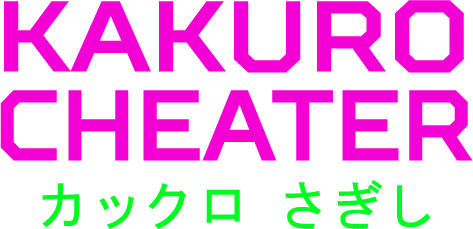
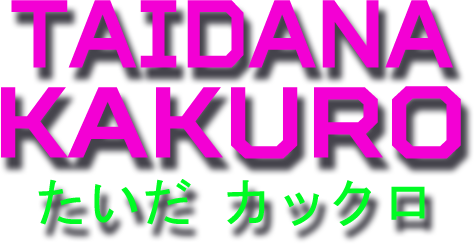
UI Changes, Nearly Complete
Modernized UI.

diff --git a/src/kakuro/Main.css b/src/kakuro/Main.css
@@ -1,6 +1,6 @@
 /* VARIABLE DEFINITIONS: Only these 4 variables have to be adjusted, the rest is copy-paste */
 * {
-    -fx-my-menu-color: #000000;                  /* Change according to your needs */
+    -fx-my-menu-color: #44434b;                  /* Change according to your needs */
     -fx-my-menu-color-highlighted: #FFFFFF;      /* Change according to your needs */
     -fx-my-menu-font-color: #FFFFFF;             /* Change according to your needs */
     -fx-my-menu-font-color-highlighted: #000000; /* Change according to your needs */
@@ -10,12 +10,17 @@
 /*** The menu bar itself ***/
 .menu-bar {
     -fx-background-color: -fx-my-menu-color;
-    -fx-padding: 2 2 2 2;
+    -fx-padding: 1 1 1 20;
+    -fx-border-radius: 12 12 12 12;
+  	-fx-background-radius: 12 12 12 12;
 }
 
 /*** Top-level menu itself (not selected / hovered) ***/
 .menu-bar > .container > .menu-button {
     -fx-background-color: -fx-my-menu-color;
+    -fx-font-family: "Helvetica";
+    -fx-font-size: 16 px;
+    -fx-font-weight: 300;
 }
 
 /*** Top-level menu's label (not selected / hovered) ***/
@@ -33,6 +38,8 @@
 .menu-bar > .container > .menu-button:focused,
 .menu-bar > .container > .menu-button:showing {
     -fx-background-color: -fx-my-menu-color-highlighted;
+    -fx-border-radius: 12 12 12 12;
+  	-fx-background-radius: 12 12 12 12;
 }
 
 /*** Top-level menu's label (selected / hovered) ***/
@@ -99,9 +106,41 @@
 }
 
 .button:focused {
-    -fx-border-color: transparent, black;
+    -fx-border-color: transparent;
 }
 
 .button:pressed {
-    -fx-background-color: black;
+    -fx-background-color: #323135;
+}
+
+.root {
+    -fx-background-color: #323135;
+    -fx-font-family: "Helvetica";
+    -fx-font-size: 16 px;
+    -fx-font-weight: 100;
+}
+
+.landing-button {
+    -fx-background-color: #44434b;
+    -fx-border-radius: 30 30 30 30;
+  	-fx-background-radius: 30 30 30 30;
+  	-fx-border-width: 5 30 5 30;
+}
+
+.landing-button:focused {
+    -fx-background-color: #44434b;
+    -fx-border-radius: 30 30 30 30;
+  	-fx-background-radius: 30 30 30 30;
+  	-fx-border-width: 5 30 5 30;
+}
+
+.landing-button:pressed {
+    -fx-background-color: #44434b;
+    -fx-border-radius: 30 30 30 30;
+  	-fx-background-radius: 30 30 30 30;
+  	-fx-border-width: 5 30 5 30;
+}
+
+.black-rect {
+	-fx-fill: #323135;
 }

diff --git a/src/kakuro/LandingPage.java b/src/kakuro/LandingPage.java
@@ -27,9 +27,9 @@ public class LandingPage {
 	public LandingPage(GameBoard gB) {
 		g = gB;
 		
-		appContent.setStyle("-fx-background-color: Black;");
+		appContent.setStyle("-fx-background-color: #323135;");
 		appContent.setVgap(20);
-		appContent.setPadding(new Insets(30, 75, 40, 75));
+		appContent.setPadding(new Insets(50, 60, 50, 60));
 		
 		// Title Button Generation
 		{
@@ -43,6 +43,7 @@ public class LandingPage {
 		// Random Button Generation / Event Handling
 		{
 			Button button2 = new Button();
+			button2.getStyleClass().add("landing-button");
 			button2.setGraphic(new ImageView(random1));
 			
 			button2.setOnMouseEntered(event -> {
@@ -62,6 +63,7 @@ public class LandingPage {
 		// Load Button Generation / Event Handling
 		{
 			Button button3 = new Button();
+			button3.getStyleClass().add("landing-button");
 			button3.setGraphic(new ImageView(loadGame1));
 			
 			button3.setOnMouseEntered(event -> {
@@ -81,6 +83,7 @@ public class LandingPage {
 		// Exit Button Generation / Event Handling
 		{
 			Button button4 = new Button();
+			button4.getStyleClass().add("landing-button");
 			button4.setGraphic(new ImageView(exit1));
 			
 			button4.setOnMouseEntered(event -> {

diff --git a/src/kakuro/Main.java b/src/kakuro/Main.java
@@ -5,11 +5,8 @@
 package kakuro;
 
 import javafx.application.Application;
-import javafx.event.EventHandler;
 import javafx.stage.Stage;
 import javafx.scene.Scene;
-import javafx.scene.input.KeyCode;
-import javafx.scene.input.KeyEvent;
 
 public class Main extends Application {
 
@@ -26,17 +23,9 @@ public class Main extends Application {
 			GameBoard gameBoard = new GameBoard(primaryStage);
 			Scene scene = new Scene(gameBoard.createContent());
 			scene.getStylesheets().add(Main.class.getResource("Main.css").toExternalForm());
-			scene.setOnKeyPressed(new EventHandler<KeyEvent>() {
-				 public void handle(final KeyEvent keyEvent) {
-				   if (keyEvent.getCode() == KeyCode.SPACE) {
-				    gameBoard.cheat();
-				    keyEvent.consume();
-				   }
-				 }
-				});
 			primaryStage.setResizable(false);
 			primaryStage.setScene(scene);
-			primaryStage.setTitle("Kakuro!");
+			primaryStage.setTitle("Taidana Kakuro");
 			primaryStage.show();
 		} catch(Exception e) {
 			e.printStackTrace();

diff --git a/src/kakuro/BlackTile.java b/src/kakuro/BlackTile.java
@@ -29,7 +29,7 @@ public class BlackTile extends Tile {
 		displayed = new Rectangle(size, size);
 
 		// paint it black
-		displayed.setFill(Color.BLACK);
+		displayed.getStyleClass().add("black-rect");
 
 		// add it to the game board
 		getChildren().addAll(displayed);
@@ -88,9 +88,9 @@ public class BlackTile extends Tile {
 			tR.setTranslateY(-14.00);
 
 			tR.setStyle(
-					"-fx-font-family: \"Times New Roman\";" +
-							"-fx-font-size: 24px;"	+
-							"-fx-fill: rgb(255,255,255);"
+					"-fx-font-family: \"Helvetica\";" +
+							"-fx-font-size: 20px;"	+
+							"-fx-fill: white;"
 					);
 
 			getChildren().addAll(tR);
@@ -102,9 +102,9 @@ public class BlackTile extends Tile {
 			bL.setTranslateY(14.00);
 
 			bL.setStyle(
-					"-fx-font-family: \"Times New Roman\";" +
-							"-fx-font-size: 24px;"	+
-							"-fx-fill: rgb(255,255,255);"
+					"-fx-font-family: \"Helvetica\";" +
+							"-fx-font-size: 20px;"	+
+							"-fx-fill: white;"
 					);
 
 			getChildren().addAll(bL);

diff --git a/src/kakuro/GameBoard.java b/src/kakuro/GameBoard.java
@@ -11,6 +11,7 @@ import java.util.ArrayList;
 import java.util.HashSet;
 import javafx.application.Platform;
 import javafx.event.EventHandler;
+import javafx.geometry.Insets;
 import javafx.scene.Parent;
 import javafx.scene.Scene;
 import javafx.scene.control.Alert;
@@ -83,6 +84,7 @@ public class GameBoard {
 				appContent.add(tile, j, i);
 			}
 		}
+		appContent.setPadding(new Insets(5, 5, 5, 5));
 	}
 
 	/**
@@ -533,7 +535,7 @@ public class GameBoard {
     				 }
     				});
     			primaryStage.setScene(scene);
-    			primaryStage.setTitle("Kakuro!");
+    			primaryStage.setTitle("Taidana Kakuro");
     			primaryStage.show();
     		} catch(Exception e) {
     			e.printStackTrace();

diff --git a/src/kakuro/WhiteTile.java b/src/kakuro/WhiteTile.java
@@ -33,7 +33,7 @@ public class WhiteTile extends Tile {
         combo.setVisible(false);
 
         label.setVisible(true);
-        label.setFont(new Font("Times New Roman", 24));
+        label.setFont(new Font("Helvetica", 22));
         label.setText(value);
 
         this.setOnMouseEntered(event -> {
